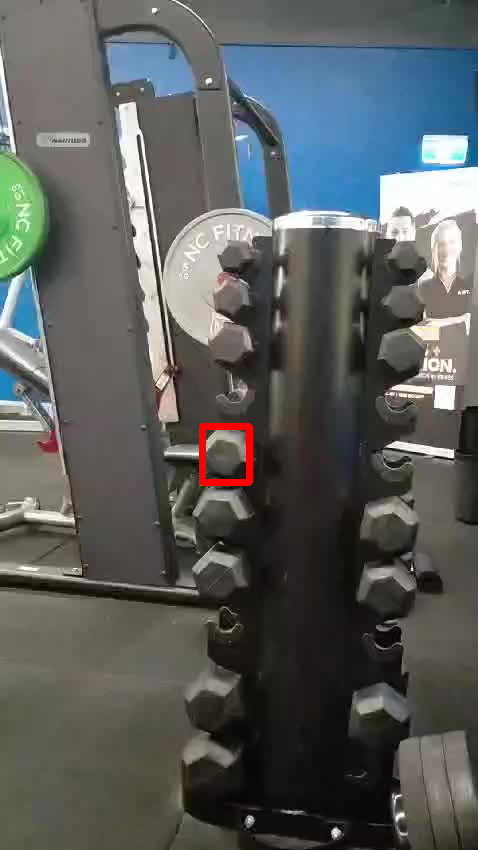
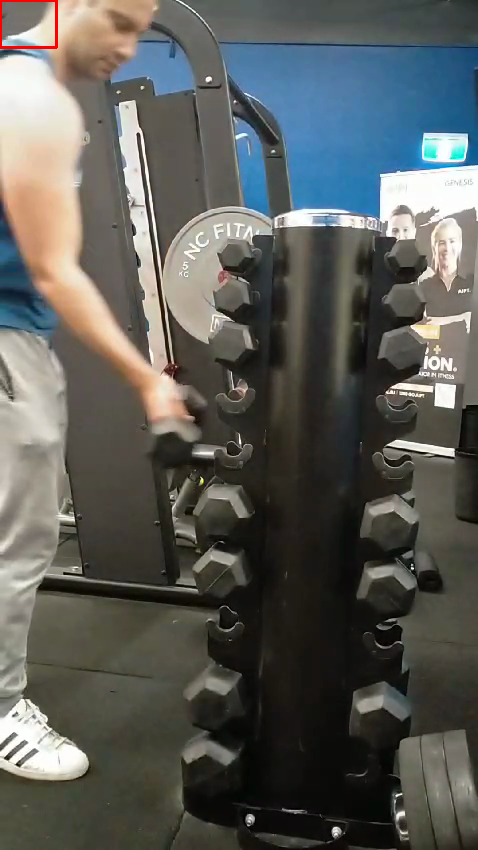
video frames

diff --git a/compare_positions.py b/compare_positions.py
@@ -3,9 +3,61 @@ import numpy as np
 import cv2
 from PIL import Image
 
+class Dumbell:
+	def __init__(self,weight, x1,y1,x2, y2):
+		self.weight = weight
+		self.x1 = x1
+		self.y1 = y1
+		self.x2 = x2
+		self.y2 = y2
+		self.emptyTemplateImage=None
+
+	def getCV2EmptyTemplateImage(self):
+		return self.emptyTemplateImage
+
+	def setCV2EmptyTemplateImage(self, cv2Image):
+		self.emptyTemplateImage=cv2Image
+
+	def getEmptyTemplateFilePath(self):
+		return '{}Ks_{}.png'.format(self.weight,self.x1)
+
 # PREPARE:
+# https://ezgif.com/video-to-jpg
 # Get (x1,y1), (x2, y2) of each dumbell manually 
 # from https://www.mobilefish.com/services/record_mouse_coordinates/record_mouse_coordinates.php
+
+dumbells = [
+Dumbell(5,202,426,249,482)
+]
+
+# fullRack = cv2.imread('full.png')
+for d in dumbells:
+  # Get image of each dumbell after removed from rack
+	im = Image.open('empty.png').convert('L')
+	im = im.crop(( d.x1,  d.y1,  d.x2, d.y2))
+	im.save(d.getEmptyTemplateFilePath())
+	d.setCV2EmptyTemplateImage(cv2.imread(d.getEmptyTemplateFilePath()))
+
+video_path = "v.mp4"
+matchTemplateThreshole=0.9
+cap = cv2.VideoCapture(video_path)
+while cap.isOpened():
+    # Read a frame from the video
+    success, frame = cap.read()
+    if not success:
+        break
+    for d in dumbells:
+    	template=d.getCV2EmptyTemplateImage()
+    	w, h = template.shape[:-1] 
+    	searchArea = frame[d.y1:d.y2,d.x1:d.x2] # restrict search area
+    	res = cv2.matchTemplate(searchArea, template, cv2.TM_CCOEFF_NORMED)
+
+    	loc = np.where(res >= matchTemplateThreshole)
+    	for pt in zip(*loc[::-1]):  # Switch columns and rows
+    		cv2.rectangle(frame, pt, (pt[0] + w, pt[1] + h), (0, 0, 255), 2)
+		cv2.imwrite('result.png', frame)
+
+
 
 # for each coordinate, get cropped of present and missing, get size of present
 
@@ -13,20 +65,17 @@ from PIL import Image
 # Taken-> for each coordinate, check if dumbell 'missing' exists in 
 # 		  corresponding (x1,y1), (x2, y2), i.e: crop and cv2.matchTemplate
 # Putback->for each missing coordinate, check if size is the same
-image = cv2.imread('image.png')
-x1=202
-y1=426
-x2=249
-y2=482
-cv2.rectangle(image, (x1,y1), (x2, y2), (0,0,255), 5)
 
-cv2.imwrite('result.png', image)
+# x1=202
+# y1=426
+# x2=249
+# y2=482
+# cv2.rectangle(image, (x1,y1), (x2, y2), (0,0,255), 5)
+
+# cv2.imwrite('result.png', image)
 
 
-# Get (x1,y1), (x2, y2) of each dumbell after removed
-im = Image.open('after.png').convert('L')
-im = im.crop((x1, y1, x2, y2))
-im.save('_0.png')
+
 
 
 # same one return->in step 1, check size of ??? 
